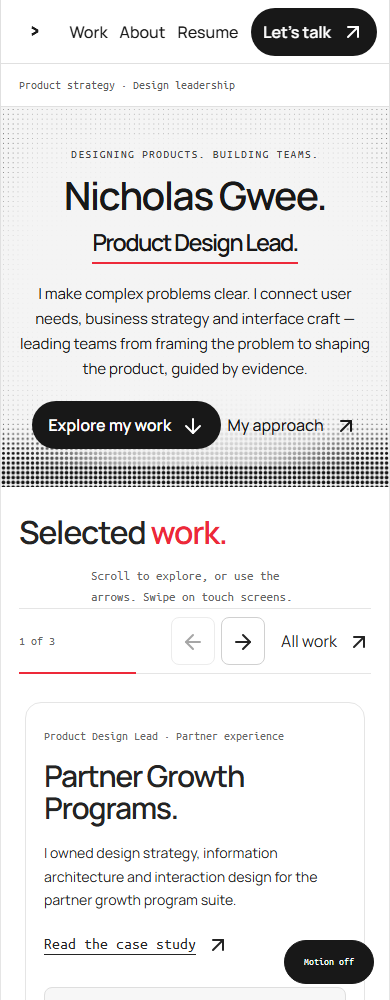
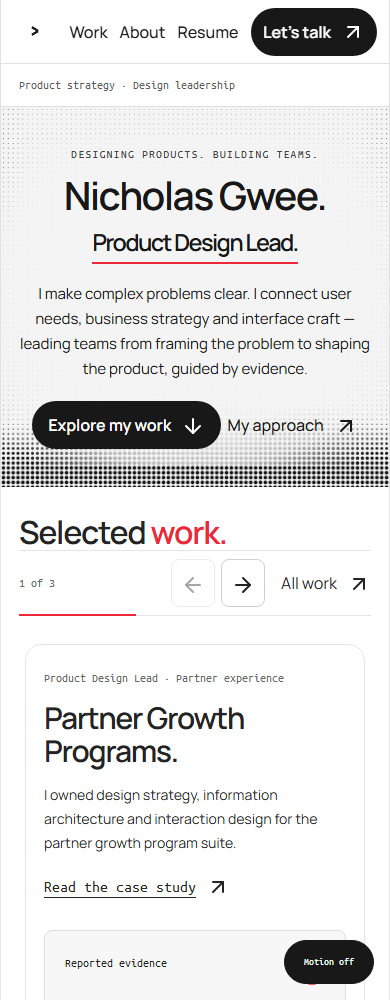
Remove visible gallery instructions

Changed region(s): [[0.0615, 0.558, 0.8615, 0.992], [0.2154, 0.558, 0.3385, 0.62], [0.9231, 0.62, 0.9538, 0.651]]

diff --git a/projects.html b/projects.html
@@ -145,13 +145,9 @@
           <p>
             Product strategy, interface craft and the evidence behind the work.
           </p>
-          <p class="showcase-hint" id="gallery-instructions">
-            Scroll to explore, or use the arrows. Swipe on touch screens.<span
-              class="sr-only"
-            >
-              Keyboard: focus the gallery and use Left and Right arrows, Home or
-              End. Tab through project links to read each case study.</span
-            >
+          <p class="sr-only" id="gallery-instructions">
+            Keyboard: focus the gallery and use Left and Right arrows, Home or
+            End. Tab through project links to read each case study.
           </p>
         </div>
         <div class="showcase-stage">

diff --git a/index.html b/index.html
@@ -249,13 +249,9 @@
       >
         <div class="showcase-intro">
           <h2 id="work-title">Selected <span>work.</span></h2>
-          <p class="showcase-hint" id="gallery-instructions">
-            Scroll to explore, or use the arrows. Swipe on touch screens.<span
-              class="sr-only"
-            >
-              Keyboard: focus the gallery and use Left and Right arrows, Home or
-              End. Tab through project links to read each case study.</span
-            >
+          <p class="sr-only" id="gallery-instructions">
+            Keyboard: focus the gallery and use Left and Right arrows, Home or
+            End. Tab through project links to read each case study.
           </p>
         </div>
         <div class="showcase-stage">

diff --git a/css/craft-motion.css b/css/craft-motion.css
@@ -68,11 +68,6 @@
   margin: 0;
   font-size: clamp(32px, 3vw, 42px);
 }
-.folio .project-showcase .showcase-hint {
-  margin: 8px 0 14px;
-  padding: 0;
-  text-align: left;
-}
 .folio .showcase-stage .showcase-toolbar {
   position: relative;
   min-height: 64px;

diff --git a/scripts/build-pages.py b/scripts/build-pages.py
@@ -116,7 +116,7 @@ def project_showcase(work_page=False):
     introduction = '<p class="eyebrow">Nicholas Gwee · Product Design Lead</p>' if work_page else ''
     description = '<p>Product strategy, interface craft and the evidence behind the work.</p>' if work_page else ''
     all_work = '' if work_page else '<a href="projects.html">All work <span aria-hidden="true">↗</span></a>'
-    return f'''<section class="selected-work project-showcase" id="work" aria-labelledby="work-title"><div class="showcase-intro">{introduction}<{heading_tag} id="work-title">Selected <span>work.</span></{heading_tag}>{description}<p class="showcase-hint" id="gallery-instructions">Scroll to explore, or use the arrows. Swipe on touch screens.<span class="sr-only"> Keyboard: focus the gallery and use Left and Right arrows, Home or End. Tab through project links to read each case study.</span></p></div><div class="showcase-stage"><div class="showcase-toolbar"><div class="showcase-navigation"><span data-showcase-status hidden role="status" aria-live="polite" aria-atomic="true"><span class="sr-only">Project </span><span data-showcase-position>1 of 3</span></span><button type="button" data-showcase-prev aria-label="Previous project" aria-controls="project-gallery" hidden disabled><span aria-hidden="true">←</span></button><button type="button" data-showcase-next aria-label="Next project" aria-controls="project-gallery" hidden><span aria-hidden="true">→</span></button>{all_work}</div><div class="showcase-progress" aria-hidden="true"><i data-showcase-progress></i></div></div><div class="showcase-track" id="project-gallery" role="region" aria-label="Selected projects" aria-describedby="gallery-instructions" tabindex="0">{items}</div></div></section>'''
+    return f'''<section class="selected-work project-showcase" id="work" aria-labelledby="work-title"><div class="showcase-intro">{introduction}<{heading_tag} id="work-title">Selected <span>work.</span></{heading_tag}>{description}<p class="sr-only" id="gallery-instructions">Keyboard: focus the gallery and use Left and Right arrows, Home or End. Tab through project links to read each case study.</p></div><div class="showcase-stage"><div class="showcase-toolbar"><div class="showcase-navigation"><span data-showcase-status hidden role="status" aria-live="polite" aria-atomic="true"><span class="sr-only">Project </span><span data-showcase-position>1 of 3</span></span><button type="button" data-showcase-prev aria-label="Previous project" aria-controls="project-gallery" hidden disabled><span aria-hidden="true">←</span></button><button type="button" data-showcase-next aria-label="Next project" aria-controls="project-gallery" hidden><span aria-hidden="true">→</span></button>{all_work}</div><div class="showcase-progress" aria-hidden="true"><i data-showcase-progress></i></div></div><div class="showcase-track" id="project-gallery" role="region" aria-label="Selected projects" aria-describedby="gallery-instructions" tabindex="0">{items}</div></div></section>'''
 
 def archive():
     return '''<section class="archive"><div class="section-heading"><p class="eyebrow">Earlier work · GovTech</p><h2>Public service.<br>Practical impact.</h2></div><div class="archive-entry"><h3>Transcribe</h3><p>0-to-1 design for a secure speech-to-text platform: live and file transcription in English, Chinese, Malay and Tamil; shared workspaces; automated minutes and summaries.</p><span class="archive-evidence">3 government agencies · reported adoption</span></div><div class="archive-entry"><h3>Centralised Data Platform</h3><p>0-to-1 design for a data subscription platform that streamlines request and approval workflows.</p><span class="archive-evidence">5+ government agencies · reported scope</span></div><a class="text-link" href="originals/projects.html">View the original project index ↗</a></section>'''

diff --git a/docs/craft-motion.md b/docs/craft-motion.md
@@ -14,7 +14,7 @@ The homepage and Work page share the same generated previews. Every frame uses t
 - Discounting: two sample checkboxes update the final rate and ordered remaining balances using the same cent-rounded calculation as the complete case. `$150 × 0.85 × 0.90 = $114.75`, before commission and taxes. Only proportional bars animate; every amount updates immediately.
 - Developer Portal: Environment, Rollout and Review are keyboard-accessible tabs. The summary groups the same six existing configuration categories as the full workflow. It does not save or deploy anything.
 
-Full case interactions use the same brief selection/reveal language. A thin gallery progress rail follows actual horizontal position, with native overflow, boundary release, keyboard navigation and stable page height. Link arrows move two pixels on hover/focus. A modest identity entrance keeps content visible from its first frame.
+Full case interactions use the same brief selection/reveal language. Visible gallery instructions are removed from Home and Work; keyboard help remains available to screen readers. A thin gallery progress rail follows actual horizontal position, with native overflow, boundary release, keyboard navigation and stable page height. Link arrows move two pixels on hover/focus. A modest identity entrance keeps content visible from its first frame.
 
 The first metric in each evidence panel is visually dominant. All original numbers and source context stay unchanged. Project-specific connected-program, discount-step and deployment-checkpoint linework draws once for 900ms. Every number stays stationary. User pause, reduced motion, hidden-document and offscreen suspension are respected. No JavaScript retains readable static examples and linework, with disabled example controls.
 
